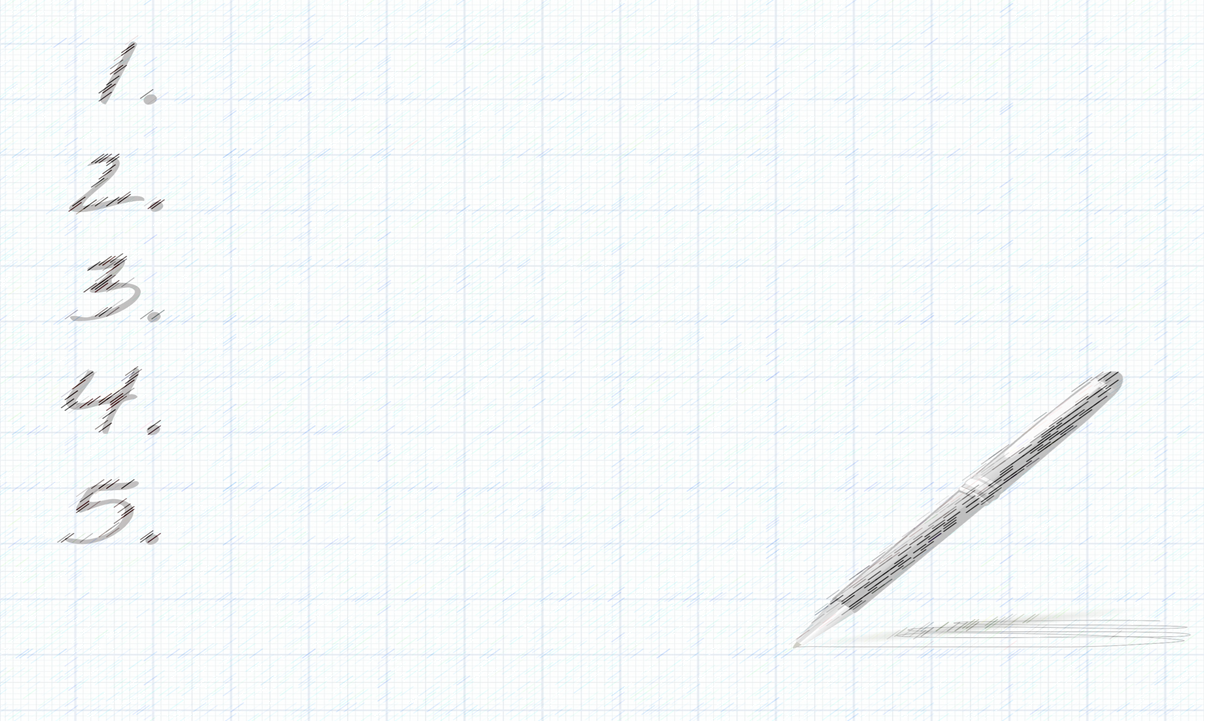
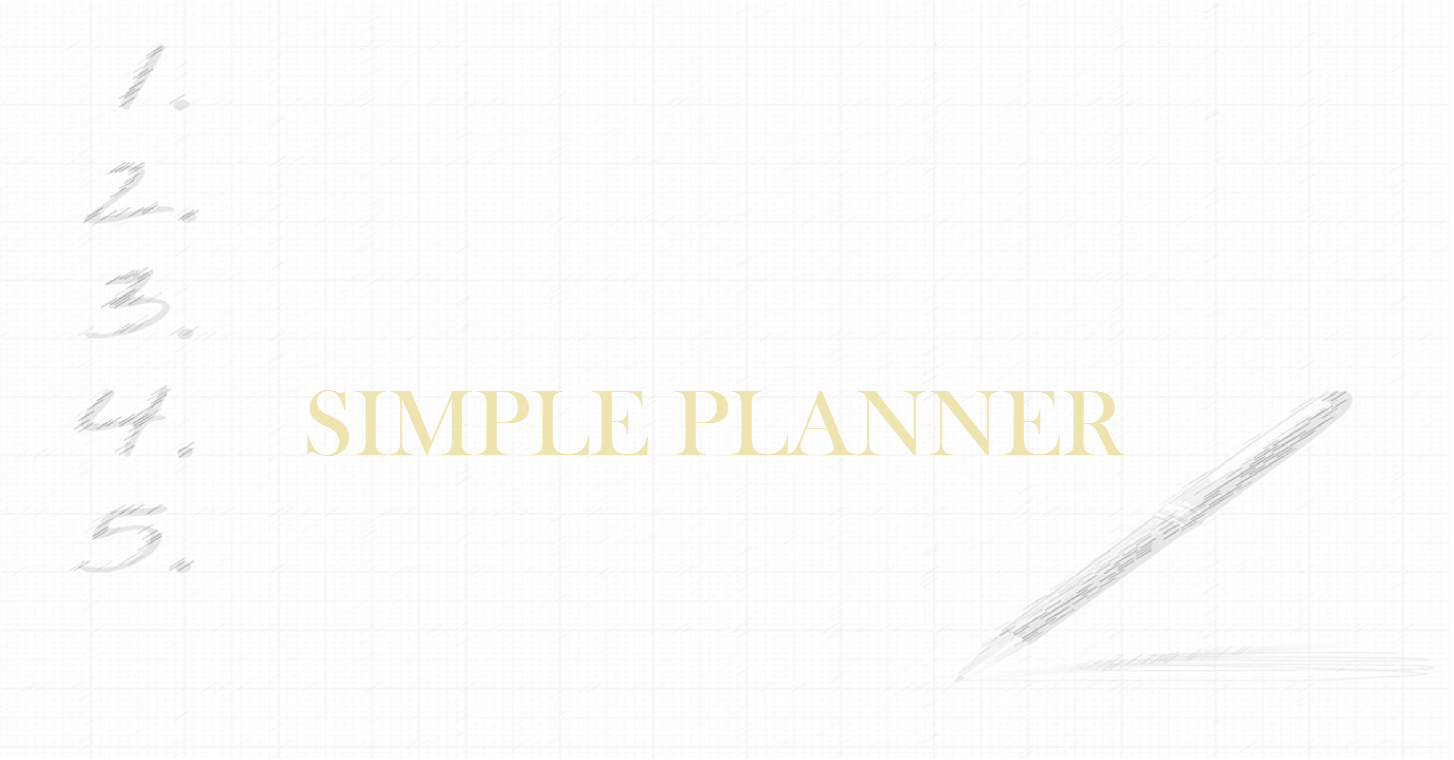
working copy

diff --git a/tasks/templates/tasks/home.html b/tasks/templates/tasks/home.html
@@ -216,46 +216,6 @@
             </div>
         </div>
 
-        <div class="row">
-            <div class="col-lg-6 col-md-6">
-                <!-- /.panel -->
-                <div class="panel panel-default">
-                    <div class="panel-heading">
-                        <i class="fa fa-bar-chart-o fa-fw"></i> Personal
-                    </div>
-                    <!-- /.panel-heading -->
-                    <div class="panel-body">
-                        <div class="row">
-                            <div class="col-lg-6">
-                                <div id="morris-bar-chart"></div>
-                            </div>
-                            <!-- /.col-lg-8 (nested) -->
-                        </div>
-                        <!-- /.row -->
-                    </div>
-                    <!-- /.panel-body -->
-                </div>
-                <!-- /.panel -->
-            </div>
-            <div class="col-lg-6 col-md-6">
-                <div class="panel panel-default">
-                    <div class="panel-heading">
-                        <i class="fa fa-bar-chart-o fa-fw"></i> Team
-                    </div>
-                    <!-- /.panel-heading -->
-                    <div class="panel-body">
-                        <div class="row">
-                            <div class="col-lg-6">
-                                <div id="morris-bar-chart"></div>
-                            </div>
-                            <!-- /.col-lg-8 (nested) -->
-                        </div>
-                        <!-- /.row -->
-                    </div>
-                    <!-- /.panel-body -->
-                </div>
-            </div>
-        </div>
 
     </div>
     {% endif %} {% endblock %}

diff --git a/tasks/templates/tasks/login.html b/tasks/templates/tasks/login.html
@@ -4,7 +4,7 @@
     <div class="container">
         <div class="row">
             <div class="col-md-4 col-md-offset-4">
-                <div class="login-panel panel panel-default">
+                <div class="login-panel panel panel-primary">
                     <div class="panel-heading">
                         <h3 class="panel-title">Please Sign In</h3>
                     </div>

diff --git a/tasks/templates/tasks/base.html b/tasks/templates/tasks/base.html
@@ -90,7 +90,7 @@
 
 </head>
 
-<body>
+<body background="{% static 'tasks/images/tasks_bg.png' %}">
     {% block body %}{% endblock %}
 
 </body>

diff --git a/tasks/views.py b/tasks/views.py
@@ -138,7 +138,7 @@ def home_view(request):
 
     #print(f"Personal Tasks: {p_tasks_stat}")
     #print(f"Team Tasks: {t_tasks_stat}")
-    context= {'projectDict':projectDict, 'user':request.user.username,
+    context= {'projectDict':projectDict, 'user':request.user.get_full_name(),
                 'l_act_p_count':l_act_p_count,'l_act_t_count':l_act_t_count,
                 'l_arch_p_count':l_arch_p_count,'l_arch_t_count':l_arch_t_count
                ,'l_p_task_count':l_p_task_count,'l_t_task_count':l_t_task_count

diff --git a/README.md b/README.md
@@ -1,0 +1,53 @@
+# CSCI S-33a: Final Project
+
+#### Your name
+
+Satyanarayana Tammineedi
+
+#### Your teaching fellow's name
+
+David Nunez
+
+#### Project Title
+Simple Planner
+
+#### What is the tool about?
+
+This is a simple planning tool that enables users and teams to create plans, assemble and assign tasks and collaborate with other users
+
+UI: Featues:
+    Ability to create the Projects
+    >> What is a Project? Project is group of your related Tasks, workitems.
+    >> There are 2 types of Projects
+    >>> Personal Project - where you are keeping track of your personal task items
+    >>> Team Project - You can create task list and assign to different team members with due dates
+
+    Ability to move tasks from one bucket(status) to another in a project
+    >> To keep track of the status of your tasks you can move the tasks from one bucket to another
+
+    Ability to add/delete Tasks in each bucket
+    >> You will be able to create new task items in each bucket(status).
+    >> If you are creating a tasks
+
+    Ability to edit and re-assign Tasks in each bucket
+    >> You can always update the Task detials and re-assign to different team members.
+
+    Ability to add team members to the project
+    >> You can select the users and add to your team.
+    >> currently removing of users is not supported.
+
+    Archive/Activate the Project
+    >> By default when project is created it is an active project.
+    >> If you would like to freeze updates, and archive the project
+    >> Click on the Archive project and all edit functionality is disabled.
+    >> You can always bring back the project to Active Status.
+
+    Global Dashboard
+    >> Global Dashboard provides the Stats on # of Projects and # of Tasks
+
+Database:
+    Database is desinged with additional capabilities to the application in mind
+    1. You can add comments to each Task - feature not implimented
+    2. Buckets can be customizable - you can change the names of buckets from django admin screen
+    3. Design is provisioned to extend number of buckets to any number
+
